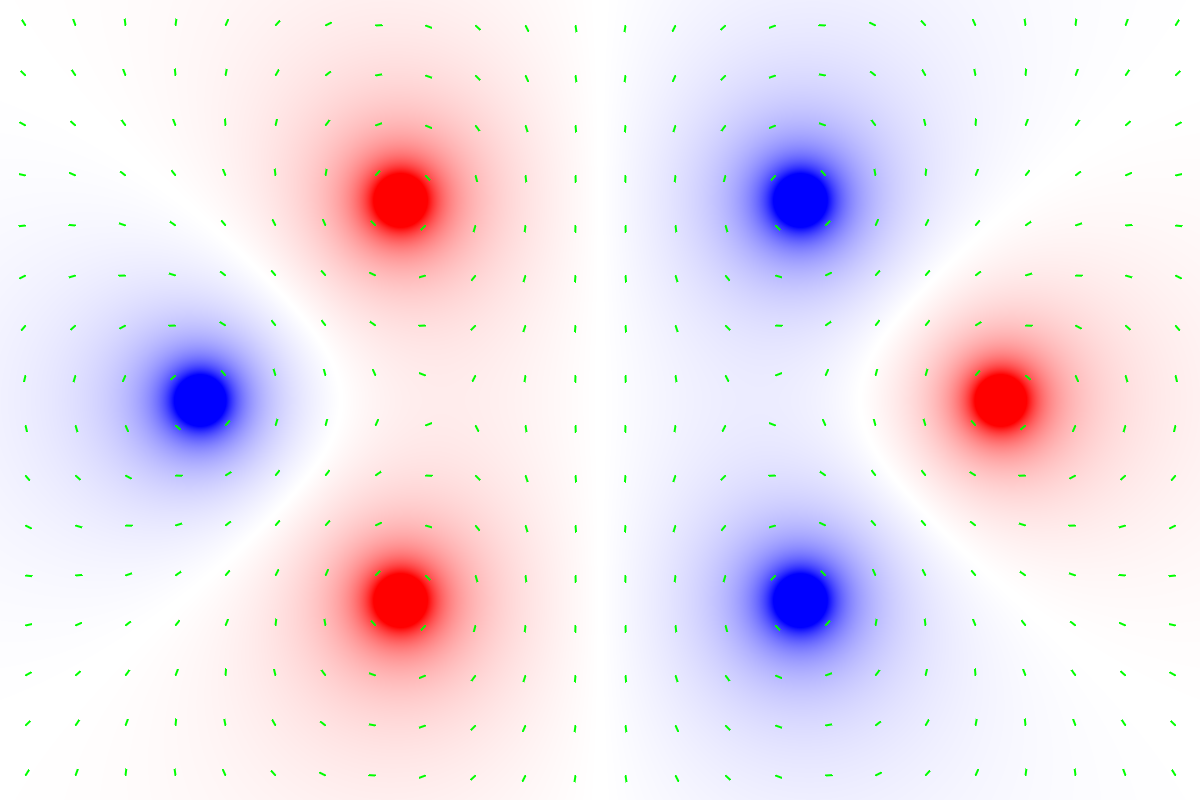
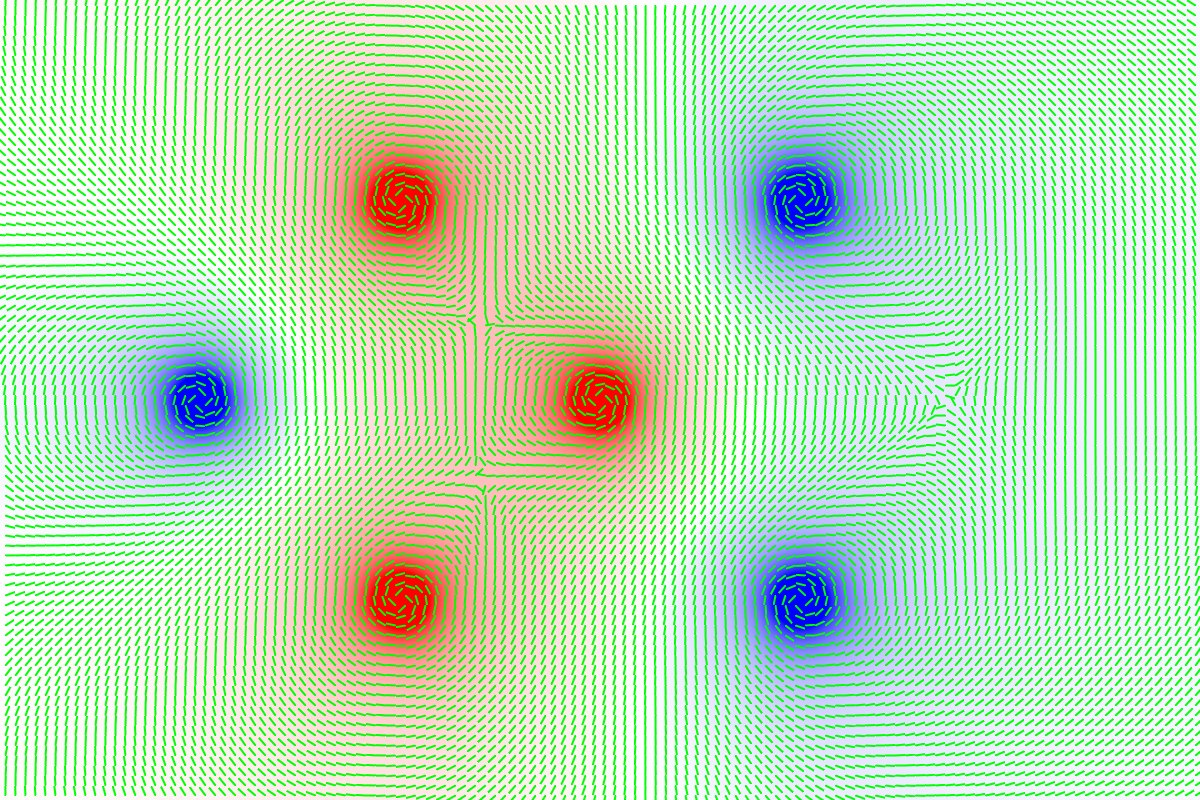
update draw function

diff --git a/pictFunc/drawLine.go b/pictFunc/drawLine.go
@@ -26,6 +26,39 @@ func DrawLines(l []Line, w []float64, c [][]uint8, inp Pict) Pict {
 	return res
 }
 
+func DrawMMLines(l []MMLine, c [][]uint8, inp Pict) Pict {
+	res := Wcanvas(inp.Width, inp.Height)
+	res = inp
+
+	for x := 0; x < inp.Width; x++ {
+		for y := 0; y < inp.Height; y++ {
+			for i := 0; i < len(l); i ++ {
+
+				if float64(x) < l[i].Minx {
+					continue
+				} else if l[i].Maxx < float64(x) {
+					continue
+				} else if float64(y) < l[i].Miny {
+					continue
+				} else if l[i].Maxy < float64(y) {
+					continue
+				}
+
+
+				if inner3c(l[i].S.X, l[i].S.Y, l[i].D.X, l[i].D.Y, float64(x), float64(y)) {
+					r := cntPointRatioMM(l[i], float64(x), float64(y), 1.0)
+					res.Px[x][y][0] = uint8(r * float64(c[i][0]) + (1.0 - r) * float64(res.Px[x][y][0]))
+					res.Px[x][y][1] = uint8(r * float64(c[i][1]) + (1.0 - r) * float64(res.Px[x][y][1]))
+					res.Px[x][y][2] = uint8(r * float64(c[i][2]) + (1.0 - r) * float64(res.Px[x][y][2]))
+					res.Px[x][y][3] = uint8(r * float64(c[i][3]) + (1.0 - r) * float64(res.Px[x][y][3]))
+				}
+			}
+		}
+	}
+
+	return res
+}
+
 func DrawPLP(l Line, w float64, c []uint8, inp Pict) Pict {
 	ca := DrawLine5(l, w, c, inp)
 	ca = DrawPointP(l.S, w, c, ca)
@@ -61,6 +94,18 @@ func inPointRatio(l Line, x, y, w, ofs float64) float64 {
 		return 1.0
 	} else if dst < w {
 		return (w - dst) / ofs
+	} else {
+		return 0.0
+	}
+}
+
+func cntPointRatioMM(l MMLine, x, y, ofs float64) float64 {
+	dst := queDistLine(l.S.X, l.S.Y, l.D.X, l.D.Y, x, y)
+
+	if dst < l.W - 0.5 * ofs {
+		return 1.0
+	} else if dst < l.W + 0.5 * ofs {
+		return (l.W - (dst - 0.5 * ofs)) / ofs
 	} else {
 		return 0.0
 	}
@@ -178,6 +223,37 @@ func DrawLine5(l Line, w float64, c []uint8, inp Pict) Pict {
 				continue
 			}
 			res.Px[x][y] = inp.Px[x][y]
+		}
+	}
+
+	return res
+}
+
+func DrawLine6(l MMLine, c []uint8, inp Pict) Pict {
+	res := inp
+
+	for x := 0; x < inp.Width; x++ {
+		if float64(x) < l.Minx {
+			continue
+		} else if l.Maxx < float64(x) {
+			break
+		}
+
+		for y := 0; y < inp.Height; y++ {
+			if float64(y) < l.Miny {
+				continue
+			} else if l.Maxy < float64(y) {
+				break
+			}
+
+			if inner3c(l.S.X, l.S.Y, l.D.X, l.D.Y, float64(x), float64(y)) {
+				r := cntPointRatioMM(l, float64(x), float64(y), 1.0)
+				res.Px[x][y][0] = uint8(r * float64(c[0]) + (1.0 - r) * float64(inp.Px[x][y][0]))
+				res.Px[x][y][1] = uint8(r * float64(c[1]) + (1.0 - r) * float64(inp.Px[x][y][1]))
+				res.Px[x][y][2] = uint8(r * float64(c[2]) + (1.0 - r) * float64(inp.Px[x][y][2]))
+				res.Px[x][y][3] = uint8(r * float64(c[3]) + (1.0 - r) * float64(inp.Px[x][y][3]))
+				continue
+			}
 		}
 	}
 

diff --git a/emsFunc/emsStructure.go b/emsFunc/emsStructure.go
@@ -122,6 +122,29 @@ func (this *Field) DrawMGMesh2(pitch, ofs float64, inp pictFunc.Pict) pictFunc.P
 	return res
 }
 
+func (this *Field) DrawMGMesh2MM(pitch, ofs float64, inp pictFunc.Pict) pictFunc.Pict {
+	res := inp
+
+	lb := make([]pictFunc.MMLine, 0)
+	cb := make([][]uint8, 0)
+
+	for x := ofs; x < float64(inp.Width); x += pitch {
+		for y := ofs; y < float64(inp.Height); y += pitch {
+			epos := MkEPoint(x, y, 1)
+			mgl := this.CalcMGVLS(epos.Pnt, 10)
+			mmmgl := pictFunc.MkMMLineL(1.0, mgl)
+			lb = append(lb, mmmgl)
+			cb = append(cb, []uint8{255, 0, 255, 0})
+
+//			fmt.Println(x, y)
+		}
+	}
+
+	res = pictFunc.DrawMMLines(lb, cb, inp)
+
+	return res
+}
+
 func (this *Field) DrawMGMesh(pitch, ofs float64, inp pictFunc.Pict) pictFunc.Pict {
 	res := inp
 

diff --git a/pictFunc/structure.go b/pictFunc/structure.go
@@ -4,6 +4,11 @@ type Point struct {
 	X, Y float64
 }
 
+type MMLine struct {
+	S, D Point
+	W, Minx, Miny, Maxx, Maxy float64
+}
+
 type Line struct {
 	S, D Point
 }
@@ -43,6 +48,36 @@ func MkLineF(x1, y1, x2, y2 float64) Line {
 
 	p.S = MkPoint(x1, y1)
 	p.D = MkPoint(x2, y2)
+
+	return p
+}
+
+func MkMMLineL(w float64, l Line) MMLine {
+	return MkMMLineF(l.S.X, l.S.Y, l.D.X, l.D.Y, w)
+}
+
+func MkMMLineF(x1, y1, x2, y2, w float64) MMLine {
+	var p MMLine
+
+	p.S = MkPoint(x1, y1)
+	p.D = MkPoint(x2, y2)
+	p.W = w
+
+	if x1 < x2 {
+		p.Minx = x1 - w
+		p.Maxx = x2 + w
+	} else {
+		p.Minx = x2 - w
+		p.Maxx = x1 + w
+	}
+
+	if y1 < y2 {
+		p.Miny = y1 - w
+		p.Maxy = y2 + w
+	} else {
+		p.Miny = y2 - w
+		p.Maxy = y1 + w
+	}
 
 	return p
 }

diff --git a/main.go b/main.go
@@ -18,13 +18,14 @@ func main(){
 	emf.AddEp(emsFunc.MkEPoint(200, 400, -30.0))
 	emf.AddEp(emsFunc.MkEPoint(400, 600, 30.0))
 	emf.AddEp(emsFunc.MkEPoint(800, 200, -30.0))
-	emf.AddEp(emsFunc.MkEPoint(1000, 400, 30.0))
+	emf.AddEp(emsFunc.MkEPoint(600, 400, 30.0))
 	emf.AddEp(emsFunc.MkEPoint(800, 600, -30.0))
 
 	canv := emf.DrawEPField(1200, 800)
 
 //	canv = emf.DrawMGMesh(50, 25, canv)
-	canv = emf.DrawMGMesh2(50, 25, canv)
+//	canv = emf.DrawMGMesh2(50, 25, canv)
+	canv = emf.DrawMGMesh2MM(10, 5, canv)
 
 	canv.Save("res.png")
 }

diff --git a/README.md b/README.md
@@ -1,1 +1,7 @@
-# es_golang
+# es_golang  
+
+# EXECUTION TIME  
+
+Draw 1 : 46.71s  
+Draw 2 : 4.03s  
+Draw 2MM : 1.06s  
